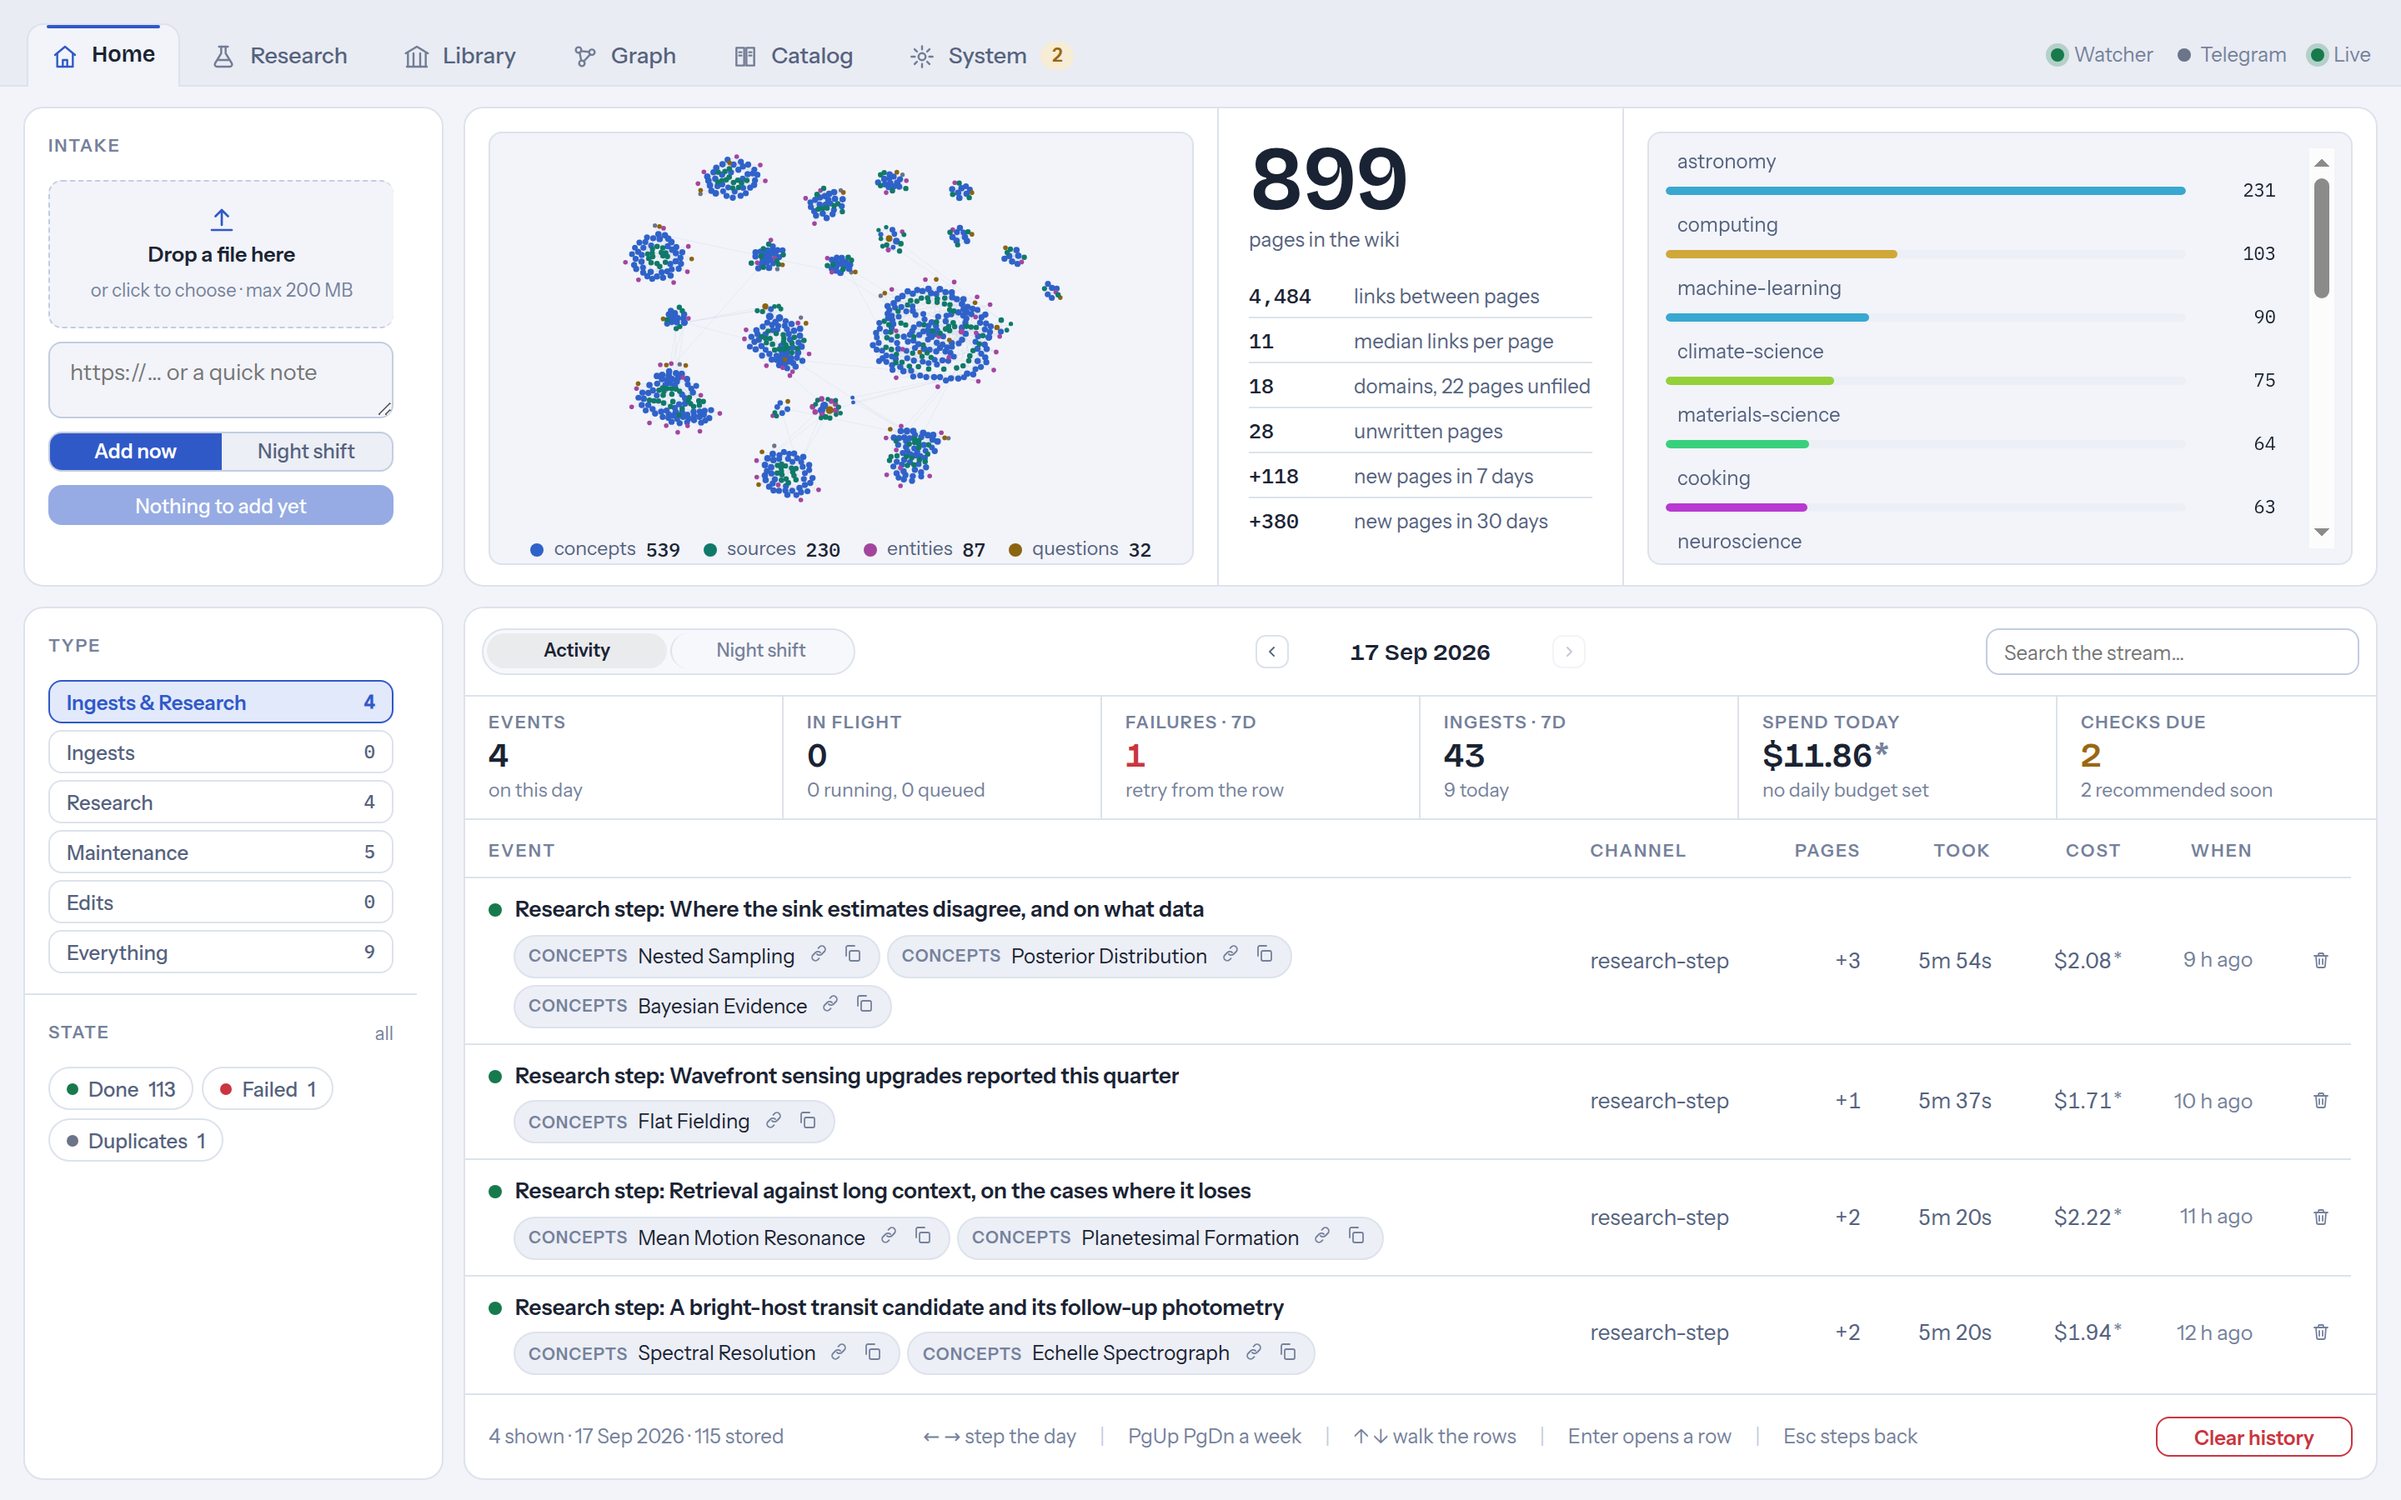
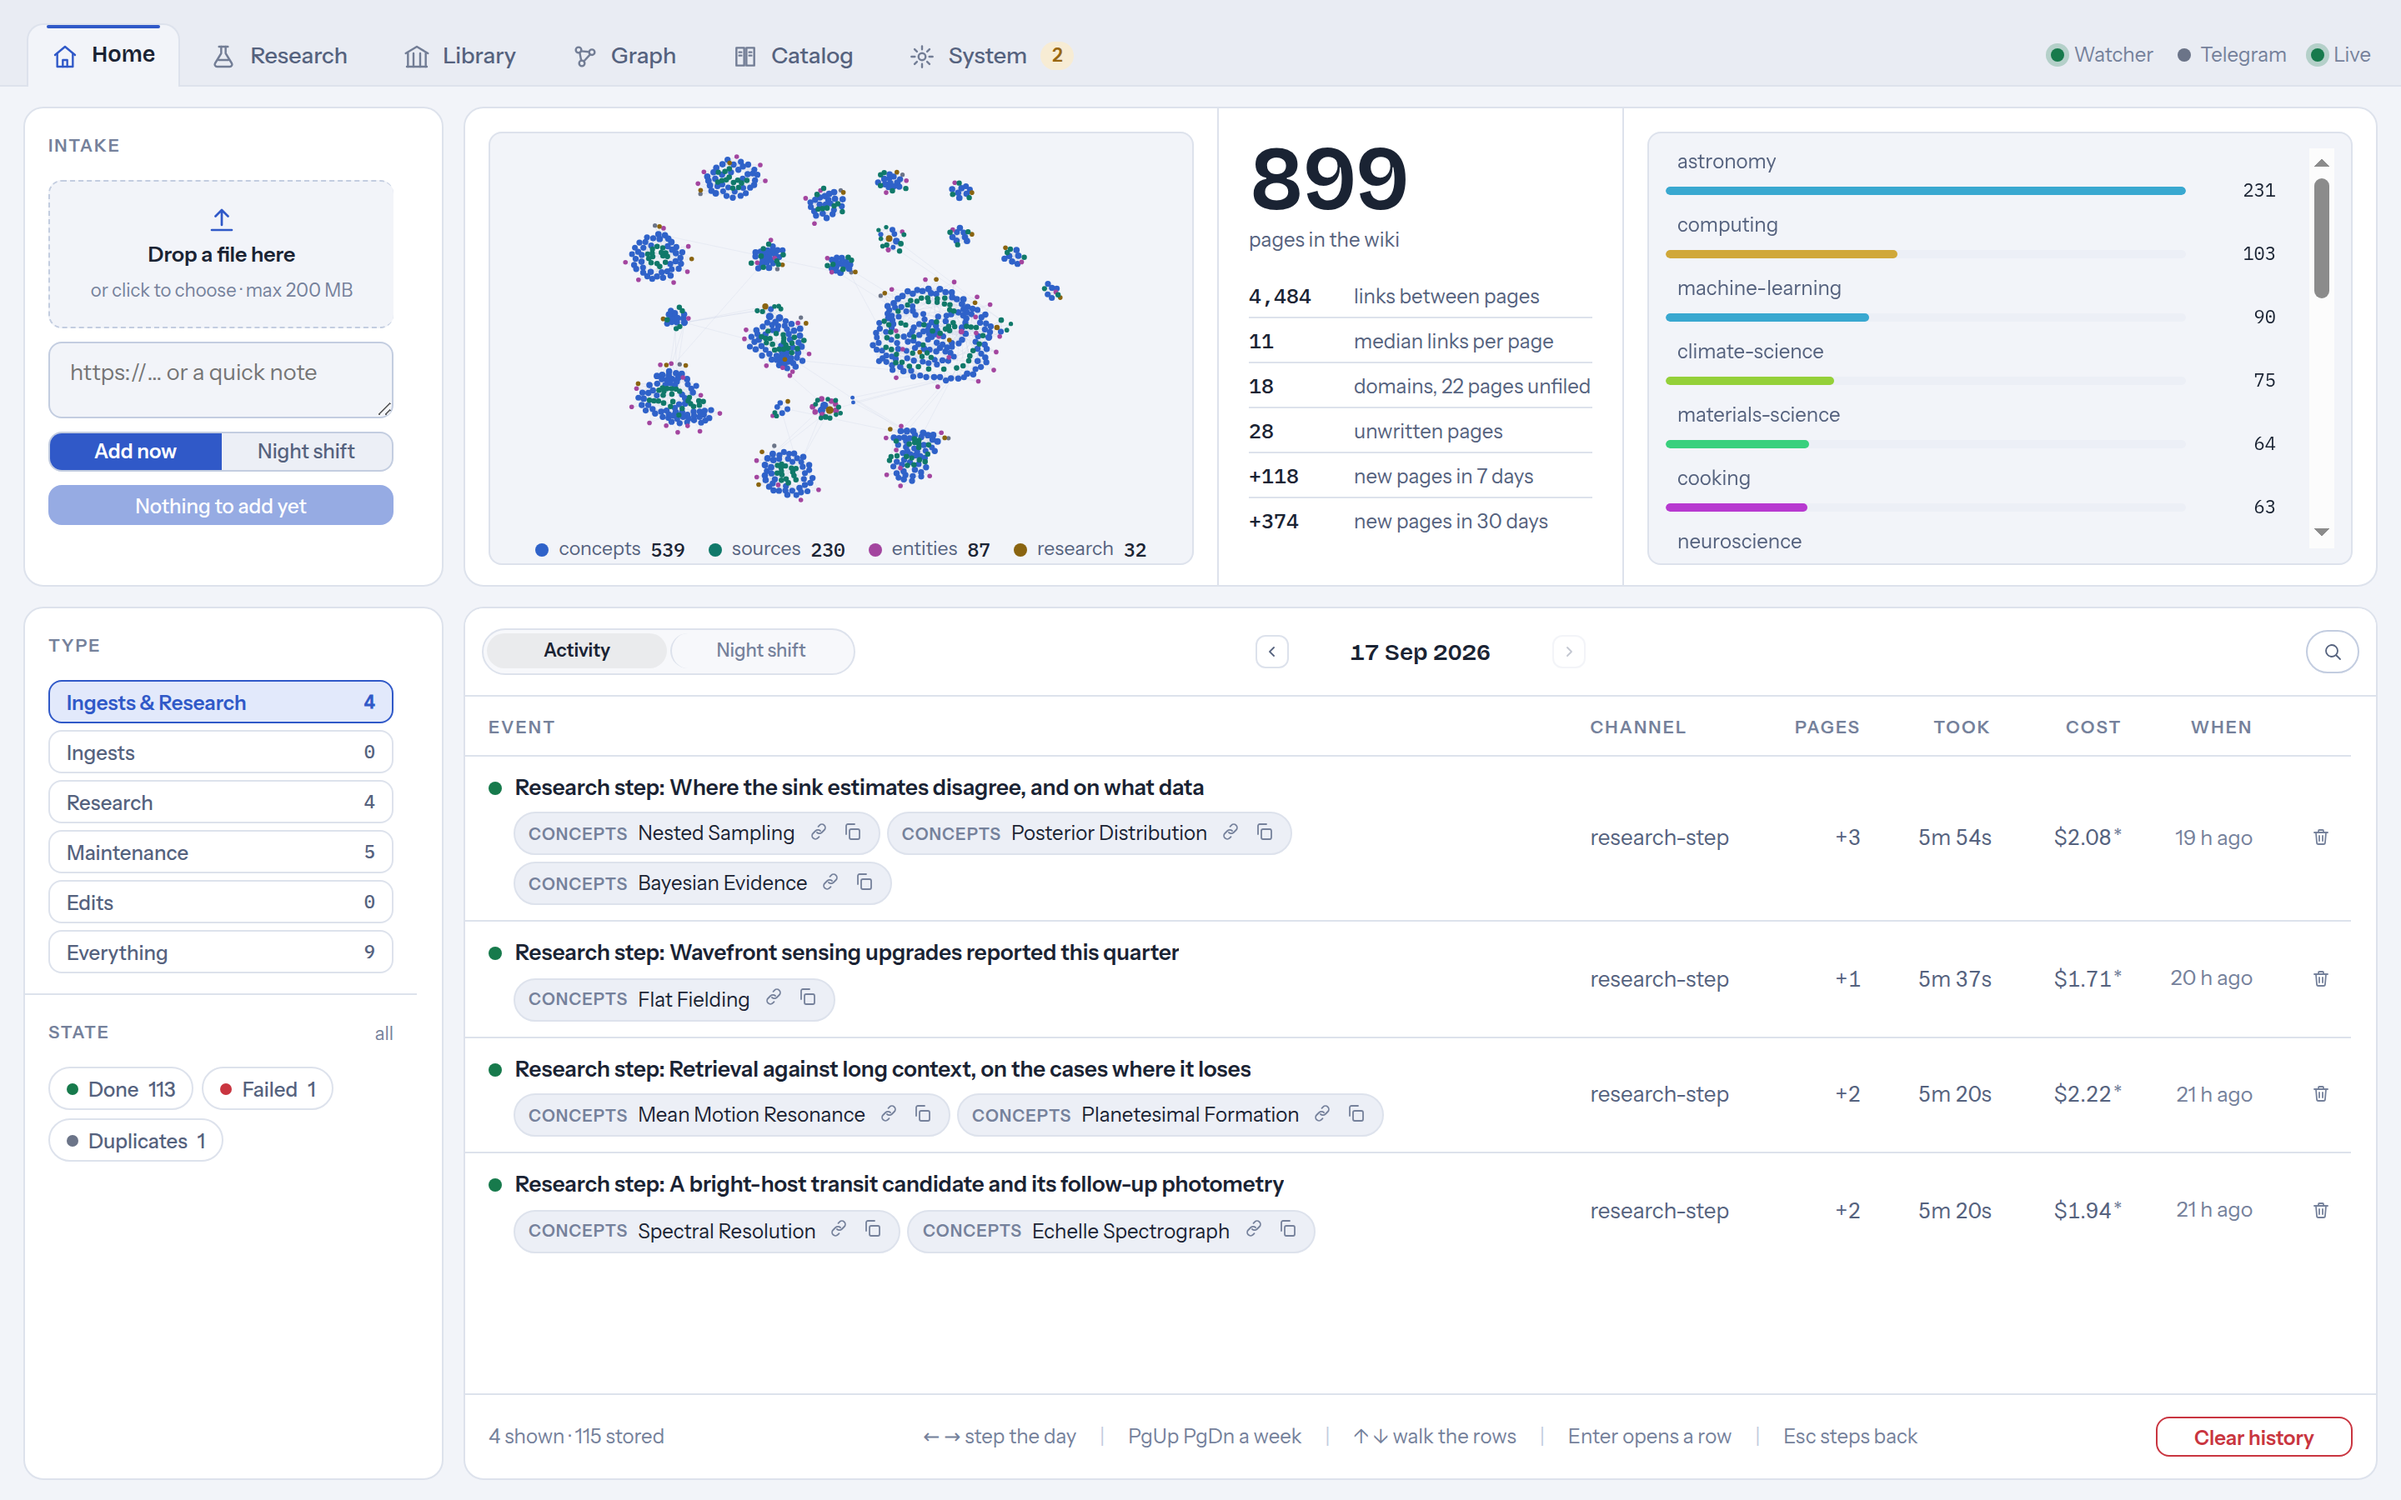
docs: the third sweep's record, the README's Home paragraph, Home and Catalog re-shot

diff --git a/docs/tasks/TASKS-SWEEP-2026-09.md b/docs/tasks/TASKS-SWEEP-2026-09.md
@@ -312,3 +312,49 @@ A second list, split the same way and settled up front:
       a saved page is the web row's material, so this reads as the same rule, not a new one.
       Observed, not changed: the shift counted "4 of 5 done" although all five ended done -
       the count is taken when the queue first turns idle, and one job was between attempts.
+
+## Third sweep (2026-09-17)
+
+The round after the main room was refurnished (`TASKS-A6.md` section 11): two graph and research
+mechanics asked for by name, and a sweep over Home and the Catalog with the Library and the
+graph as the measure - harmonise, remove what repeats, tighten the guidance; no rebuild. Mockups
+were the real app over the Vite dev server against the synthetic vault, shot through the headless
+browser, and the two Home variants and the Catalog column were decided from those sheets.
+
+- [x] **The graph's lock.** A padlock in the canvas's bottom left corner holds the picture on
+      screen (`web/src/lib/graphFreeze.ts`, `Vault.tsx`). Three parameters were put as choices
+      and decided: the filter panel stays usable while the lock is closed and every change is
+      an excursion the next Escape returns from (not greyed, not hidden); the lock lasts for the
+      browser tab (sessionStorage: a reload keeps it, a new tab starts open); Escape re-fits the
+      held nodes rather than restoring the exact pan and zoom. While closed, the explorer panel
+      stays away and one click on a node opens its page. The record is read back field by
+      field, tested; twenty browser checks walk filter change, article round trip, tab away,
+      reload and unlock.
+- [x] **The Research ledgers' search folds behind a magnifier**, the graph's and the Catalog's
+      slot: `/` opens, Escape clears and then folds, folding clears the text, a mode switch
+      starts the other ledger folded. Written down in `web/DESIGN.md` as the rule for every
+      search a bar or a head carries.
+- [x] **Catalog column, in the graph's shape.** The type filter is one row per type with the
+      type's colour dot and the count at the right edge, exactly the graph's page types, and
+      without the "All" chip (a picked row again is every type; the head says `all`). Sort by is
+      three paired strips, the graph's View section, with the direction arrow in the lit half:
+      by when or by name, by what kind or what field, by weight or by where it came from. The
+      reset moved from the headline into the head of the first filtering section, Home's rule,
+      and shows only while something narrows the list, so the count sentence never moves. Two
+      hint lines went (the sort's and the source types', both restating the picked pill); the
+      subset's stays, since orphans and stubs need their words.
+- [x] **Home.** The search folds behind the magnifier like everywhere else. The six lead facts
+      under the headline are gone (variant B of the sheet, chosen over keeping them): what they
+      said lives where it already lived - the count in the foot, running and failed in the state
+      chips, spend and due checks in the System tab and its badge. Only the seven-day ingest
+      figure has no place afterwards, and that was accepted. The legend under the constellation
+      said `questions` where the Catalog and the graph say `Research`: the three label maps are
+      one now (`web/src/lib/buckets.ts`). The foot no longer repeats the headline's date.
+- [x] **Kept, on purpose.** The day's arrows in Home's headline (the strip's arrows went for the
+      pills, but a date has no pills); the subset hint; the graph's own "Reset filters | Fit
+      graph" strip at the top of its column, which resets more than filters and pairs with an
+      action the Catalog has no counterpart to.
+- [x] README's Home and Catalog images re-shot from the synthetic vault; the Home shot's settle
+      condition now waits on the band's figures rather than on the facts that are no longer
+      there.
+

diff --git a/README.md b/README.md
@@ -165,7 +165,8 @@ follows the day: what arrived, what you go and find out, then what is there, the
 The left rail is the control column: the dropzone (files, URLs, a pasted note) over the filters
 that narrow the stream by kind, age, state and channel. The workspace answers two questions: **the
 stock** on top (pages, links, domains, unwritten pages) with the wikilink graph beside it and the
-domain split as bars; **the flow** underneath, as operational figures over the activity stream.
+domain split as bars; **the flow** underneath, the activity stream under one headline that names
+the day on show.
 
 One stream, not one per channel: ingests, research runs, maintenance runs and vault edits are rows
 in the same table, each showing the pages it produced, what it took and what it cost. A row opens

diff --git a/docs/tasks/TASKS-A6.md b/docs/tasks/TASKS-A6.md
@@ -1271,3 +1271,6 @@ this section lists what the merge carries because of it.
       states, `/` opens it, Escape clears and then folds it, folding clears the text, and
       switching modes starts the other ledger folded. Seven browser checks. The convention is
       written down in `web/DESIGN.md`.
+- [x] **The third UI sweep (2026-09-17)**, recorded in `TASKS-SWEEP-2026-09.md`: the Catalog
+      column in the graph's shape, Home without its lead facts and with the folded search, one
+      bucket label map for three screens, and the lock's three design parameters as decided.
